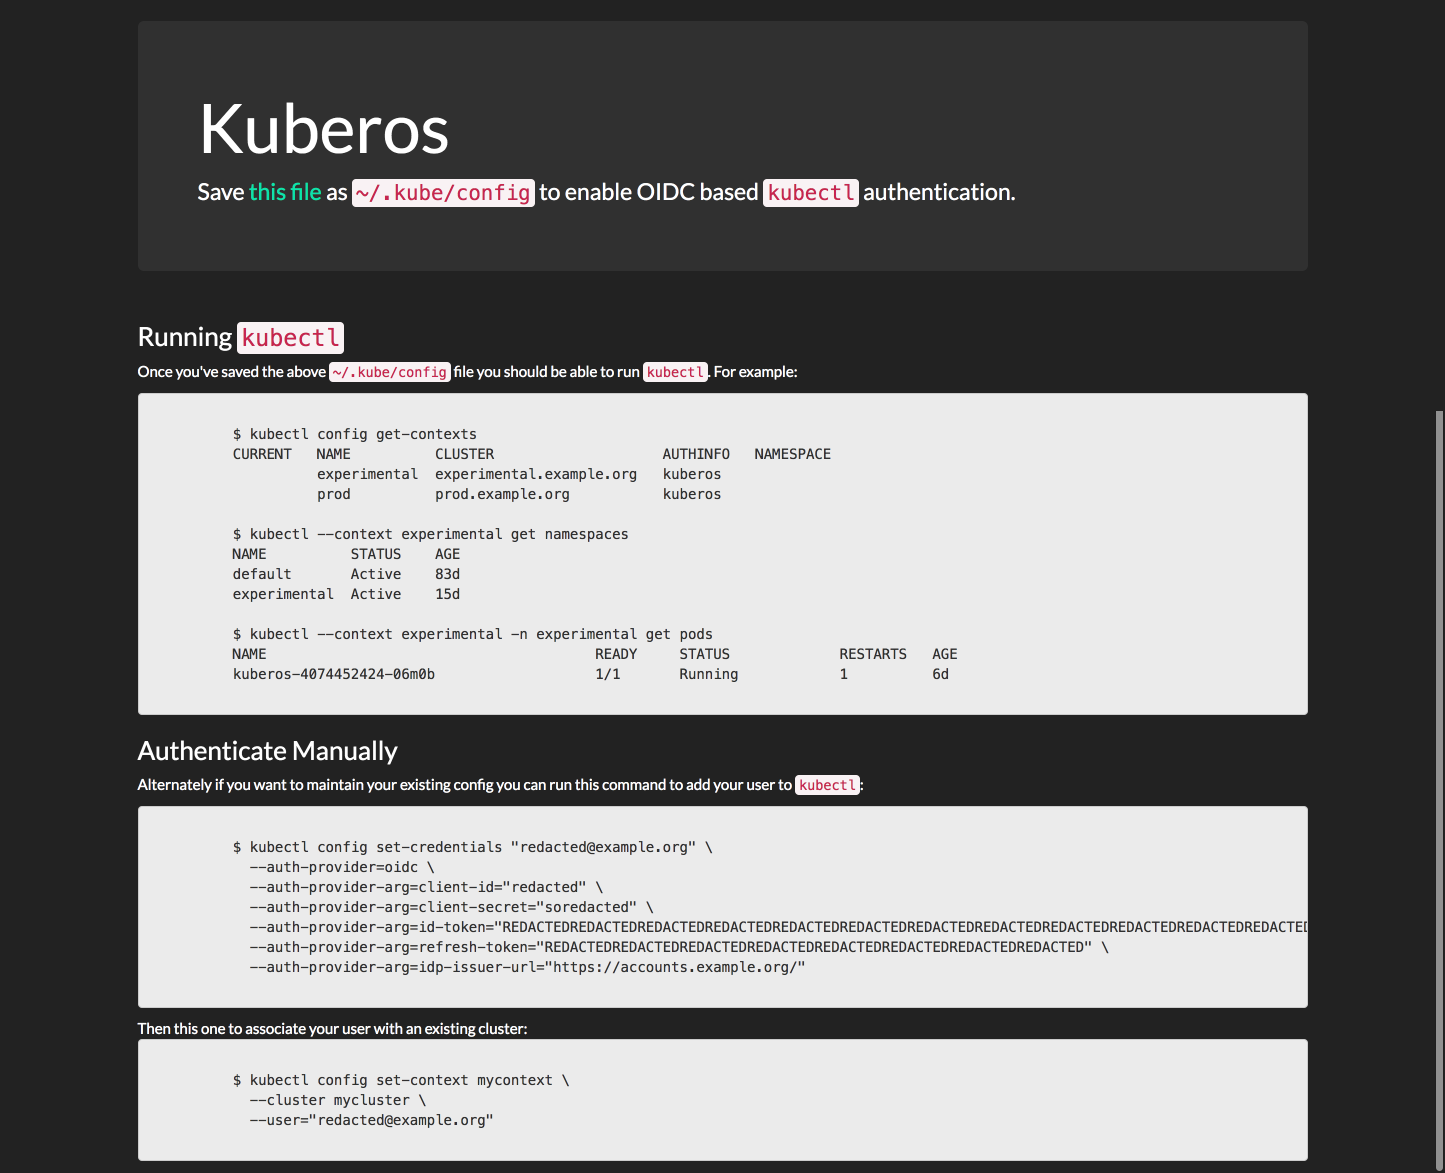
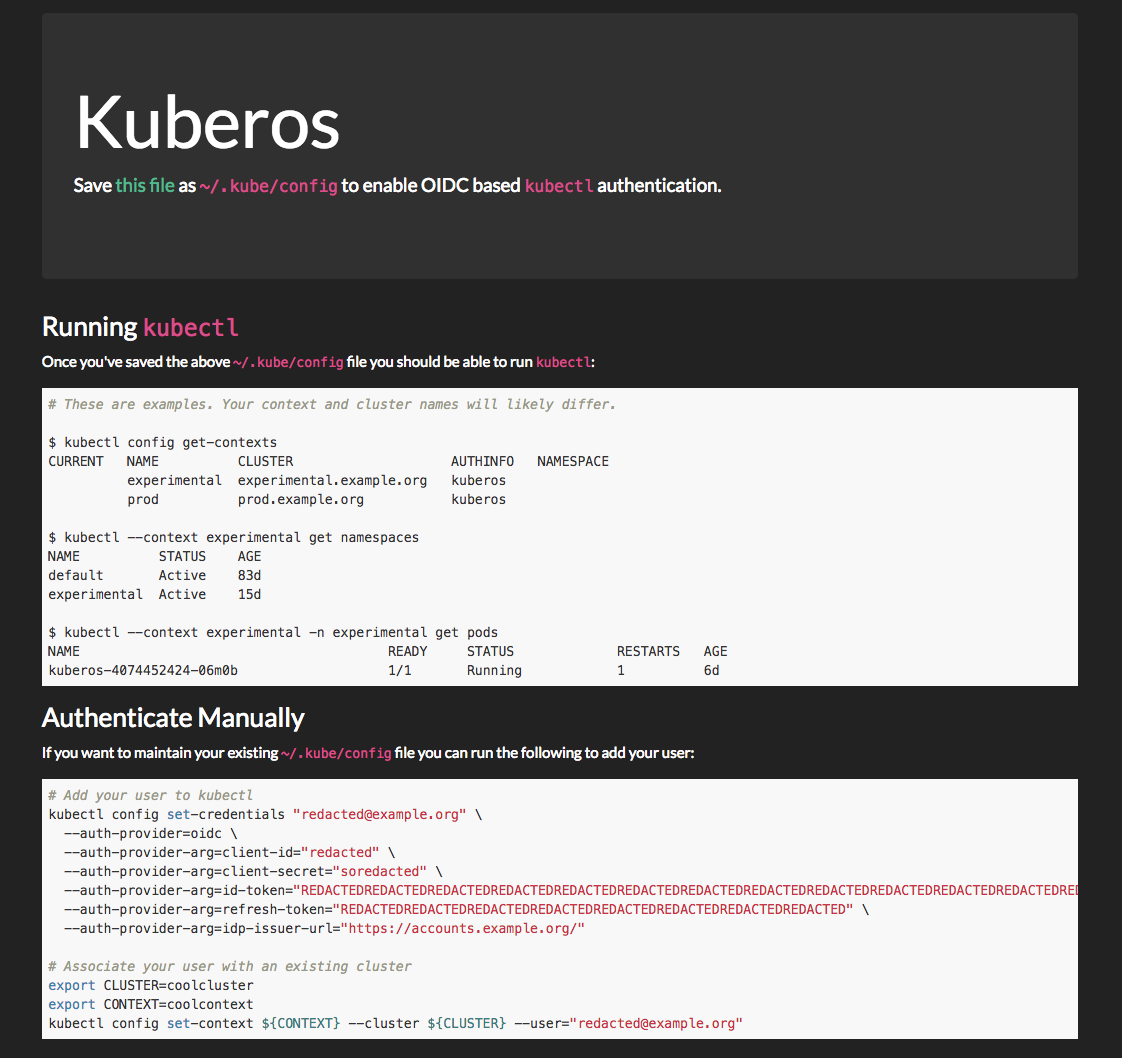
Further frontend prettification

Changed region(s): [[0.0312, 0.2495, 1.0, 0.9981], [0.0624, 0.0936, 0.7175, 0.1871], [0.5927, 0.5302, 0.6551, 0.5614]]

diff --git a/frontend/src/kuberos.vue b/frontend/src/kuberos.vue
@@ -25,43 +25,29 @@
           <h3>Running <code>kubectl</code></h3>
           <p>
             Once you've saved the above <code>~/.kube/config</code> file you should be
-            able to run <code>kubectl</code>. For example:
+            able to run <code>kubectl</code>:
           </p>
-          <pre v-highlightjs><code class="bash">
-          $ kubectl config get-contexts
-          CURRENT   NAME          CLUSTER                    AUTHINFO   NAMESPACE
-                    experimental  experimental.example.org   kuberos
-                    prod          prod.example.org           kuberos
+          <pre v-highlightjs><code class="bash"># These are examples. Your context and cluster names will likely differ.
 
-          $ kubectl --context experimental get namespaces
-          NAME          STATUS    AGE
-          default       Active    83d
-          experimental  Active    15d
+$ kubectl config get-contexts
+CURRENT   NAME          CLUSTER                    AUTHINFO   NAMESPACE
+          experimental  experimental.example.org   kuberos
+          prod          prod.example.org           kuberos
 
-          $ kubectl --context experimental -n experimental get pods
-          NAME                                       READY     STATUS             RESTARTS   AGE
-          kuberos-4074452424-06m0b                   1/1       Running            1          6d
-          </code></pre>
+$ kubectl --context experimental get namespaces
+NAME          STATUS    AGE
+default       Active    83d
+experimental  Active    15d
+
+$ kubectl --context experimental -n experimental get pods
+NAME                                       READY     STATUS             RESTARTS   AGE
+kuberos-4074452424-06m0b                   1/1       Running            1          6d</code></pre>
           <h3>Authenticate Manually</h3>
           <p>
-            Alternately if you want to maintain your existing config you can run
-            this command to add your user to <code>kubectl</code>:
+            If you want to maintain your existing <code>~/.kube/config</code>
+            file you can run the following to add your user:
           </p>
-          <pre v-highlightjs><code class="bash">
-          $ kubectl config set-credentials "{{kubecfg.email}}" \
-            --auth-provider=oidc \
-            --auth-provider-arg=client-id="{{kubecfg.clientID}}" \
-            --auth-provider-arg=client-secret="{{kubecfg.clientSecret}}" \
-            --auth-provider-arg=id-token="{{kubecfg.idToken}}" \
-            --auth-provider-arg=refresh-token="{{kubecfg.refreshToken}}" \
-            --auth-provider-arg=idp-issuer-url="{{kubecfg.issuer}}"
-          </code></pre>
-          Then this one to associate your user with an existing cluster:
-          <pre v-highlightjs><code class="bash">
-          $ kubectl config set-context mycontext \
-            --cluster mycluster \
-            --user="{{kubecfg.email}}"
-          </code></pre>
+          <pre v-highlightjs="snippetSetCreds()"><code class="bash"></code></pre>
         </b-col>
         <b-col></b-col>
       </b-row>
@@ -71,7 +57,7 @@
 
 <script>
 export default {
-  name: 'kuberos',
+  name: "kuberos",
   metaInfo: {
     title: "Kubernetes Authentication",
     htmlAttrs: {
@@ -81,26 +67,49 @@ export default {
   data: function() {
     return {
       error: null,
-      kubecfg: {
-        email: "",
-        clientID: "",
-        clientSecret: "",
-        idToken: "",
-        refreshToken: "",
-        issuer: ""
-      }
-    }
+      kubecfg: {}
+    };
   },
   methods: {
-    'templateURL': function() {
+    templateURL: function() {
       return "/kubecfg.yaml?" + $.param(this.kubecfg);
+    },
+    snippetSetCreds: function() {
+      return (
+        "# Add your user to kubectl\n" +
+        'kubectl config set-credentials "' +
+        this.kubecfg.email +
+        '" \\\n' +
+        "  --auth-provider=oidc \\\n" +
+        '  --auth-provider-arg=client-id="' +
+        this.kubecfg.clientID +
+        '" \\\n' +
+        '  --auth-provider-arg=client-secret="' +
+        this.kubecfg.clientSecret +
+        '" \\\n' +
+        '  --auth-provider-arg=id-token="' +
+        this.kubecfg.idToken +
+        '" \\\n' +
+        '  --auth-provider-arg=refresh-token="' +
+        this.kubecfg.refreshToken +
+        '" \\\n' +
+        '  --auth-provider-arg=idp-issuer-url="' +
+        this.kubecfg.issuer +
+        '"\n\n' +
+        "# Associate your user with an existing cluster\n" +
+        "export CLUSTER=coolcluster\n" +
+        "export CONTEXT=coolcontext\n" +
+        'kubectl config set-context ${CONTEXT} --cluster ${CLUSTER} --user="' +
+        this.kubecfg.email +
+        '"'
+      );
     }
   },
   created: function() {
     var q = decodeURI(location.search.substr(1))
       .replace(/"/g, '\\"')
       .replace(/&/g, '","')
-      .replace(/=/g,'":"');
+      .replace(/=/g, '":"');
     var query = "";
     if (q != "") {
       query = JSON.parse('{"' + q + '"}');
@@ -108,11 +117,14 @@ export default {
     var url = "/kubecfg?" + $.param(query);
 
     var _this = this;
-    this.axios.get(url).then(function(response) {
-      _this.kubecfg = response.data;
-    }).catch(function(error) {
-      _this.error = error;
-    })
+    this.axios
+      .get(url)
+      .then(function(response) {
+        _this.kubecfg = response.data;
+      })
+      .catch(function(error) {
+        _this.error = error;
+      });
   }
-}
+};
 </script>
